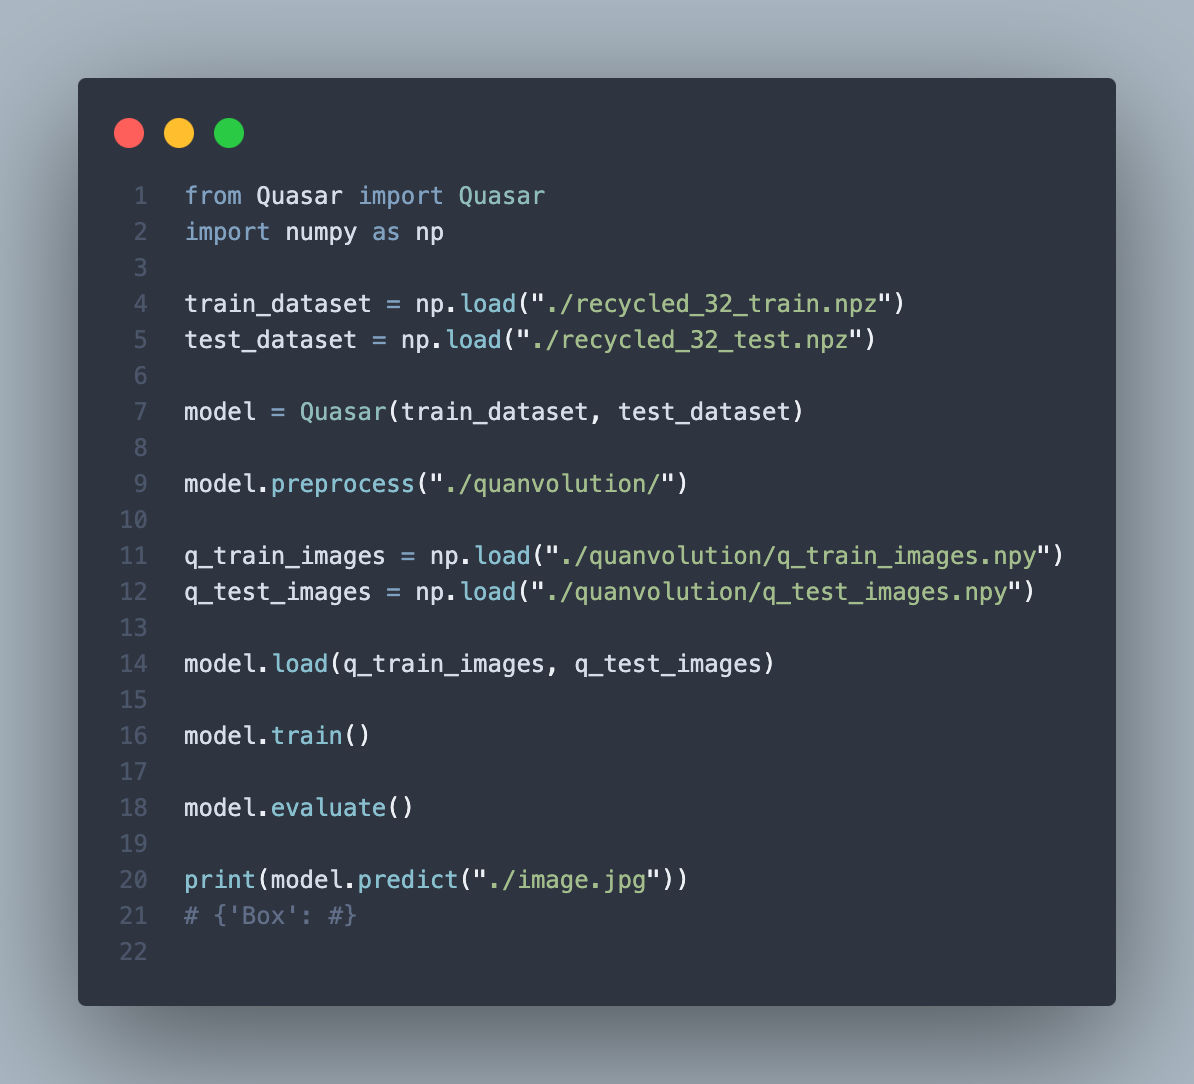
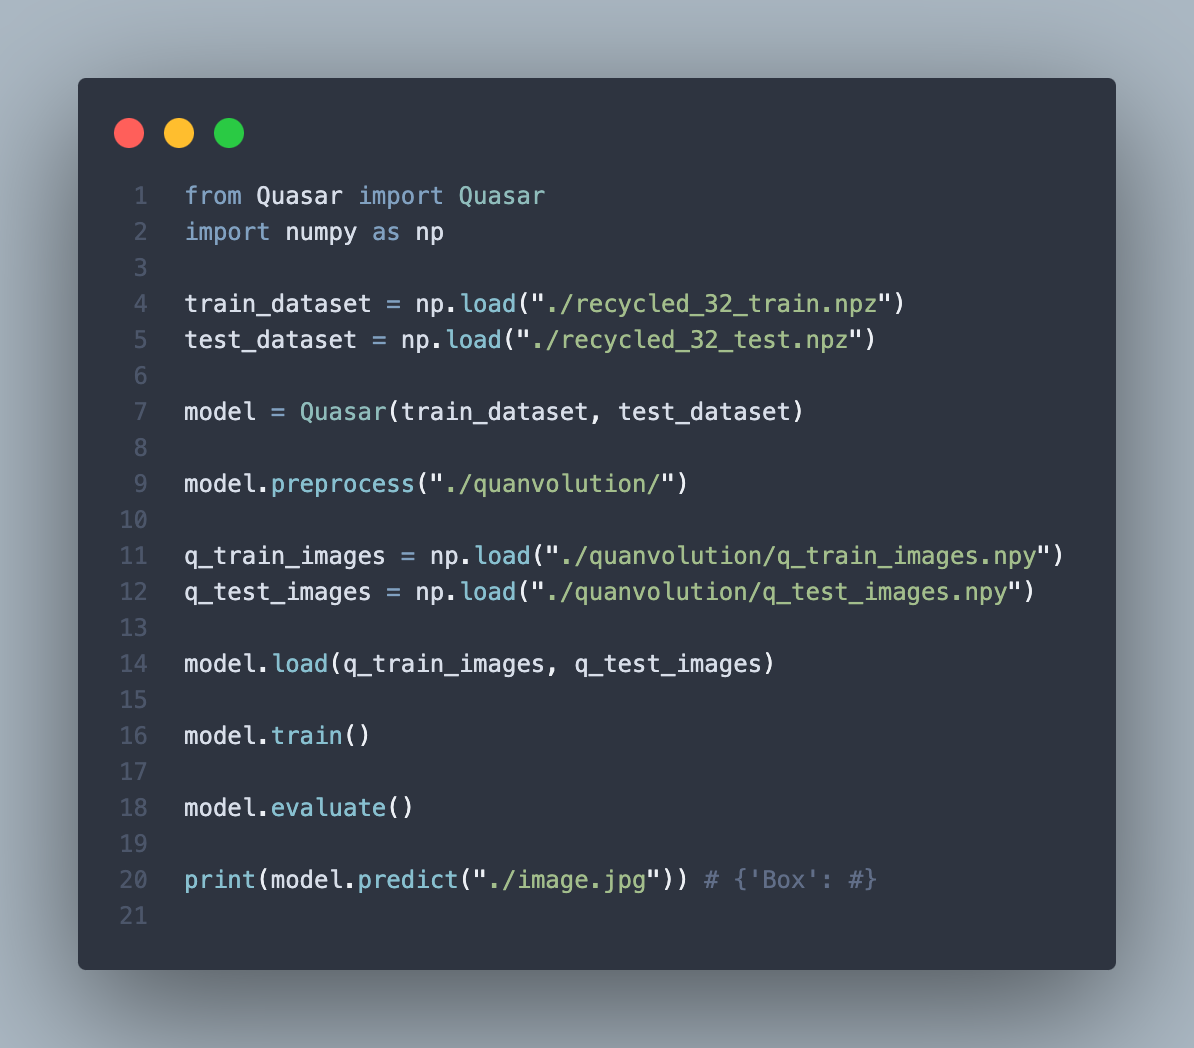
Update examples.

diff --git a/app/src/package/Quasar/example_minified.py b/app/src/package/Quasar/example_minified.py
@@ -17,5 +17,4 @@ model.train()
 
 model.evaluate()
 
-print(model.predict("./image.jpg"))
-# {'Box': #}
+print(model.predict("./image.jpg")) # {'Box': #}
